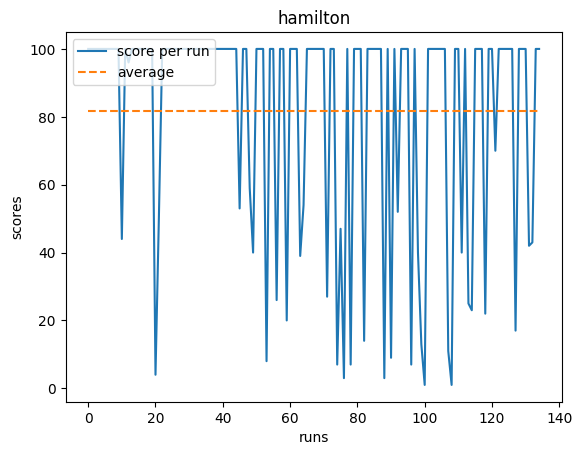
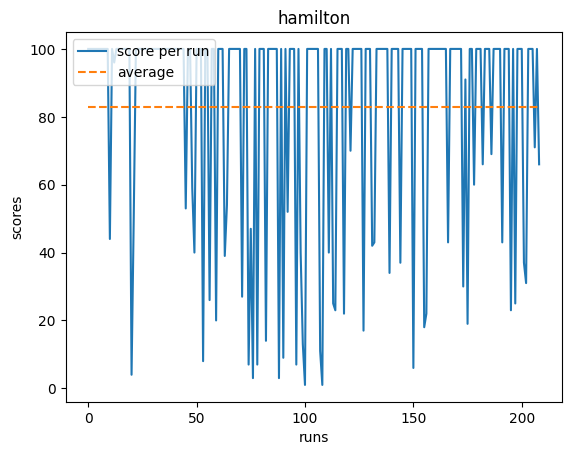
fixed the hamilton solver

diff --git a/game/environment/action.py b/game/environment/action.py
@@ -5,12 +5,25 @@
 from enum import Enum
 import math
 
+def isTuple(action):
+    return type(action) == type ((0,0))
+
 
 class Action(Enum):
     LEFT = (-1, 0)
     UP = (0, -1)
     RIGHT = (1, 0)
     DOWN = (0, 1)
+
+    @staticmethod
+    def tupleToAction(tuple):
+        if tuple[0] == -1:
+            return Action.LEFT
+        elif tuple[0] == 1:
+            return Action.RIGHT
+        elif tuple[1] == -1:
+            return Action.UP
+        return Action.DOWN
 
     @staticmethod
     def description(action):
@@ -25,12 +38,20 @@ class Action(Enum):
 
     @staticmethod
     def get_reverse(action: 'Action'):
-        switcher = {
-            Action.LEFT: Action.RIGHT,
-            Action.RIGHT: Action.LEFT,
-            Action.UP: Action.DOWN,
-            Action.DOWN: Action.UP
-        }
+        if not isTuple(action):
+            switcher = {
+                Action.LEFT: Action.RIGHT,
+                Action.RIGHT: Action.LEFT,
+                Action.UP: Action.DOWN,
+                Action.DOWN: Action.UP
+            }
+        else:
+            switcher = {
+                Action.LEFT.value: Action.RIGHT,
+                Action.RIGHT.value: Action.LEFT,
+                Action.UP.value: Action.DOWN,
+                Action.DOWN.value: Action.UP
+            }
         return switcher[action]
 
     @staticmethod
@@ -63,15 +84,24 @@ class Action(Enum):
         actions = Action.all()
         return Action._neighbor(action, actions)
 
+
+
     @staticmethod
     def _neighbor(action, actions):
         actions_count = len(actions)
         for i in range(0, actions_count):
-            if actions[i] == action:
-                if i == actions_count - 1:
-                    return actions[0]
-                else:
-                    return actions[i + 1]
+            if not isTuple(action):
+                if actions[i].value == action.value:
+                    if i == actions_count - 1:
+                        return actions[0]
+                    else:
+                        return actions[i + 1]
+            else:
+                if actions[i].value == action:
+                    if i == actions_count - 1:
+                        return actions[0]
+                    else:
+                        return actions[i + 1]
 
     @staticmethod
     def adjusted_angles(action):

diff --git a/game/models/domain_specific/longest_path_ai_solver.py b/game/models/domain_specific/longest_path_ai_solver.py
@@ -59,7 +59,7 @@ class LongestPathSolver(BaseGameModel):
                 path.insert(index + 2, y)
 
                 b = path[index + 3]
-                b.action = (b.point.x - y.point.x, b.point.y - y.point.y)
+                b.action = Action.tupleToAction((b.point.x - y.point.x, b.point.y - y.point.y))
                 path[index + 3] = b
                 continue
 
